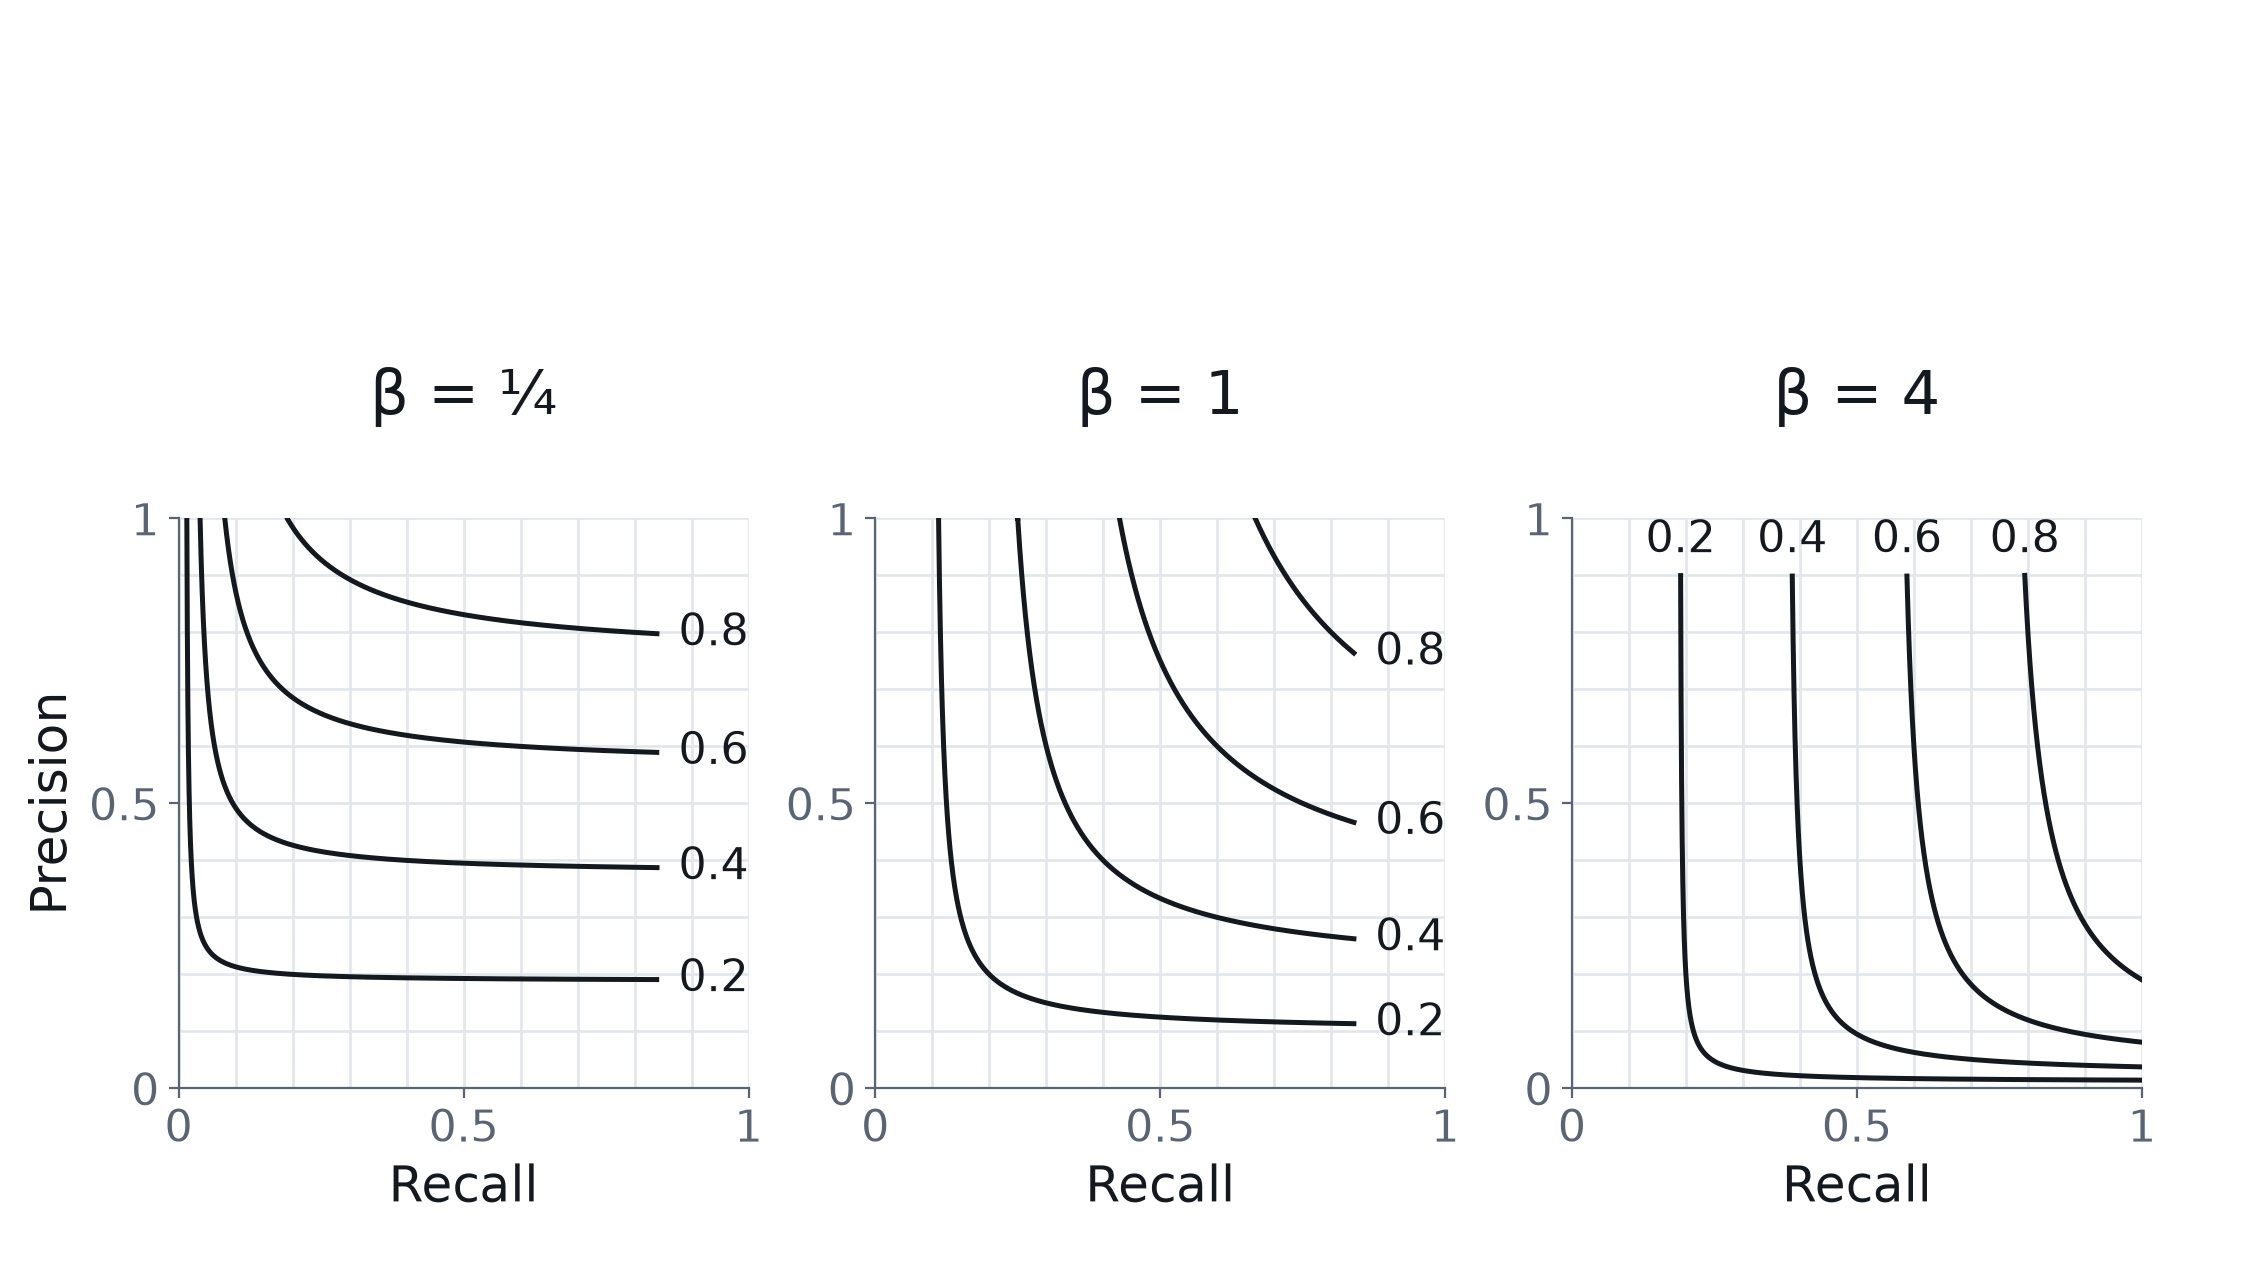
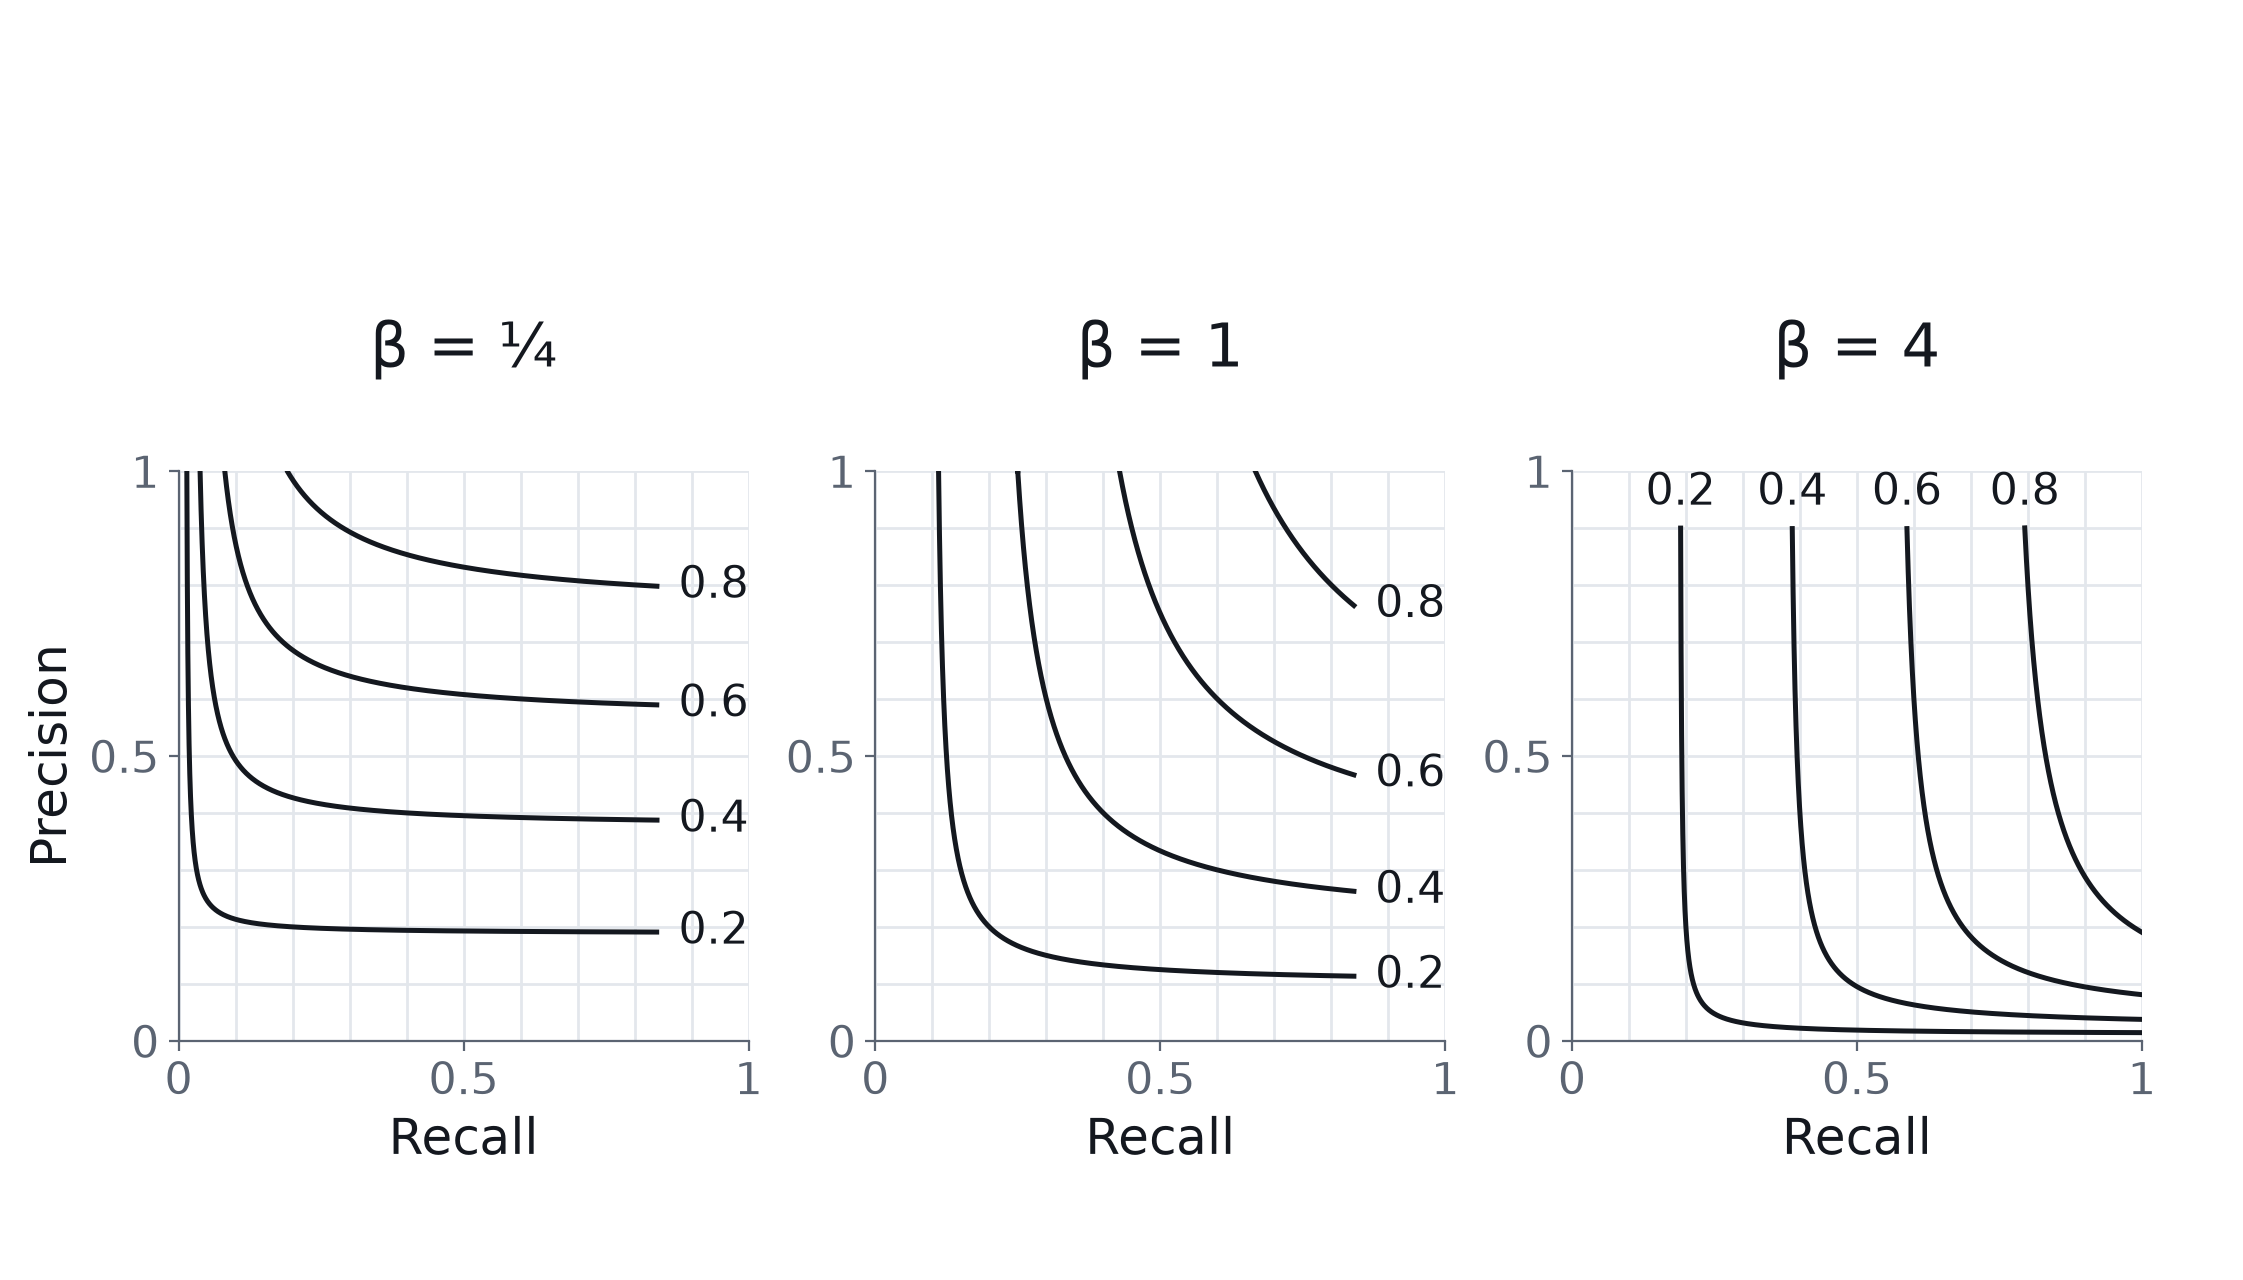
#4519: Beta Release: raise the row so the slide has a lower margin
The owner (2026-10-05): move the slide's contents up so there is a margin
below as well as above. The maps' bottom edge 1.55 -> 2.0 canvas units
(about 28 slide px): the titles now sit just under the title notch, which
save() enforces, and "Recall" ends ~68 px above the slide's edge (was ~38).

Claude-Session: https://claude.ai/code/session_01RYAFvig7c64CtSQuHpMxrk

diff --git a/slides/figs/src/make-calib-figs.py b/slides/figs/src/make-calib-figs.py
@@ -4388,11 +4388,12 @@ FBETA_MAPS_STAGES = 3
 #: and the first map's left edge (room for the row's one "Precision"). A gap
 #: holds the next map's tick numbers clear of the numbers ending the curves to
 #: its left. The row is as wide as the slide allows, short of the page
-#: number's corner; the maps' tops then sit under the title's notch.
+#: number's corner, and as high: its titles just under the title's notch, so
+#: the slack is a margin below the row as well as above it (owner, 2026-10-05).
 FBETA_MAP_SIDE = 5.4
 FBETA_MAP_GAP = 1.2
 FBETA_MAP_X = 1.3
-FBETA_MAP_Y = 1.55
+FBETA_MAP_Y = 2.0
 #: How far above its map a map's "β = ..." sits: well clear of the numbers
 #: that end β = 4's curves along its top, so it reads as the map's title and
 #: not as one more curve's label (owner, 2026-10-05). The slack above the
